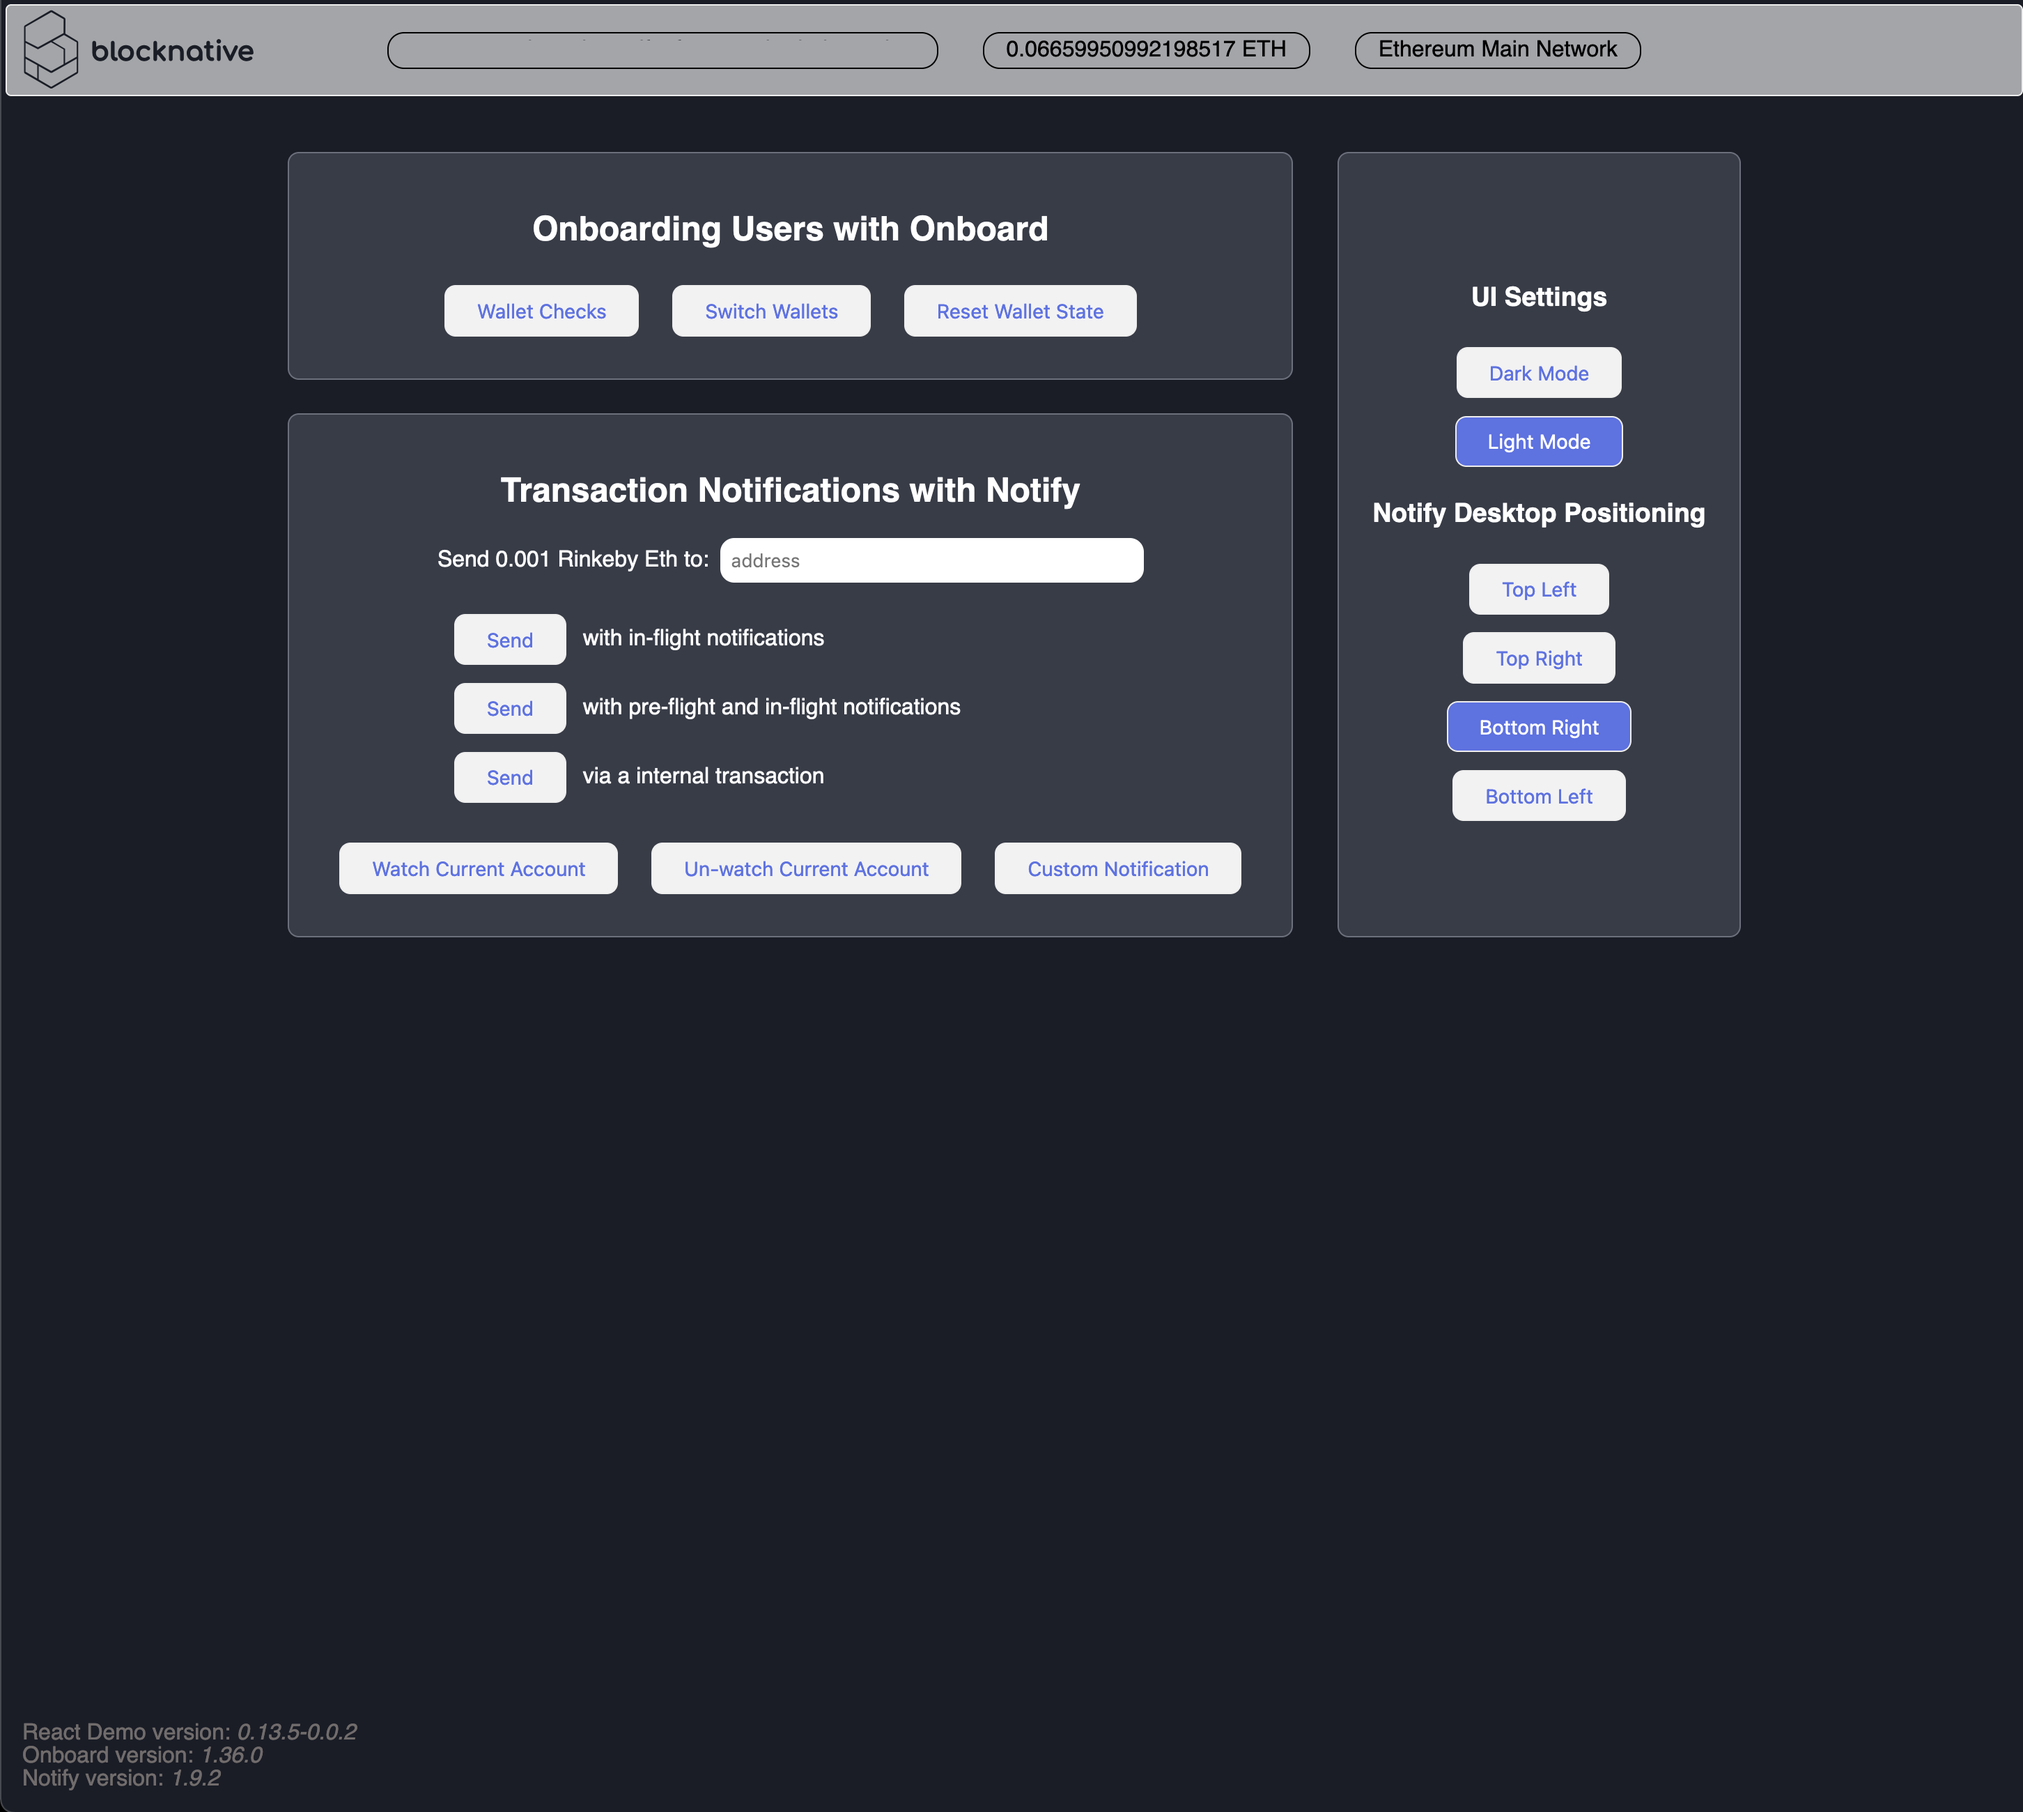
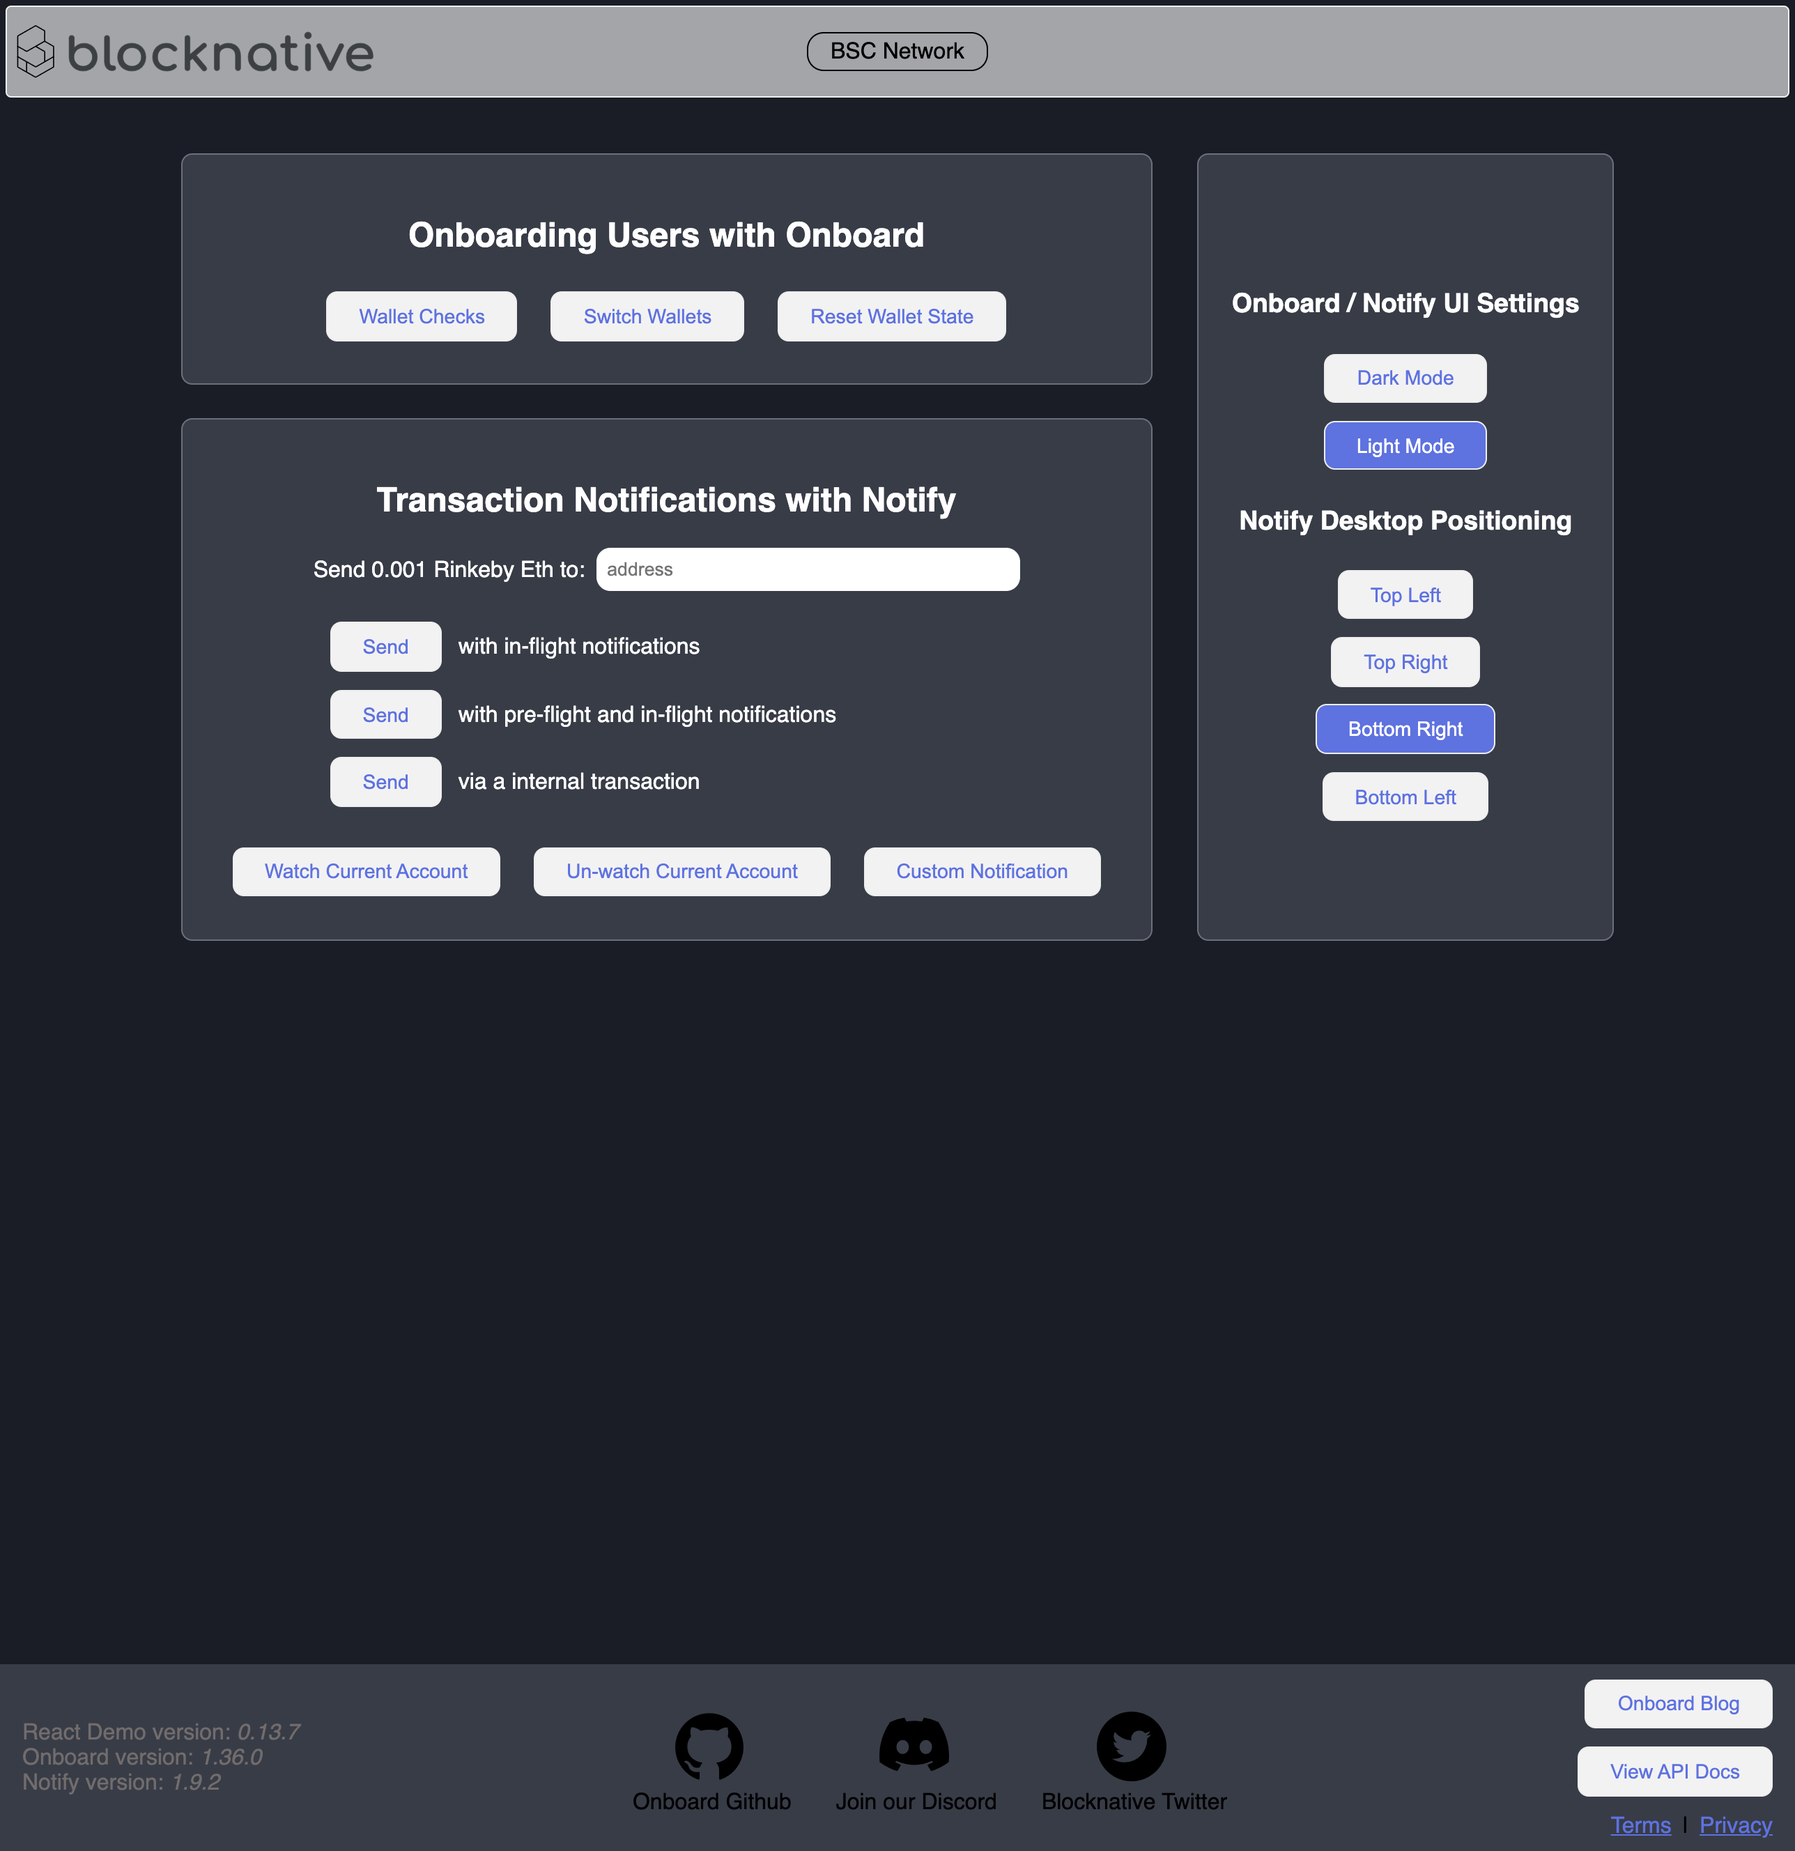
Release 0.13.7 (#129)
* Update CI node version

* Change node version CI

* Release/0.13.3 (#111)

* 0.13.2-0.0.1: [fix] - Circle CI build (#108)

* Update CI node version

* Change node version CI

* Fix build issue by upping resources for yarn build in config.yml, small refactors to create a networks enum, es6 arrow func standards

* bump version

* fix naming of network enum file

* fix naming of network enum file

* 0.13.2-0.0.2: [fix] - Increase resources for circleCI prod build (#109)

* Increase resources for circleCI prod build

* increment version

* 0.13.2-0.0.3: [enhancement] - Add popular networks support, reformatting using prettier (#110)

* Added popular networks to enum

* Reformat code using prettier

* increment version

* Add Main tag to Eth network

* add returns to new blocks and remove consoleLog

* Increase circleCI build resources, code enhancements

* 0.13.2-0.0.4: Depandabot - Bump tmpl from 1.0.4 to 1.0.5 (#107)

* Update CI node version

* Change node version CI

* Bump tmpl from 1.0.4 to 1.0.5

Bumps [tmpl](https://github.com/daaku/nodejs-tmpl) from 1.0.4 to 1.0.5.
- [Release notes](https://github.com/daaku/nodejs-tmpl/releases)
- [Commits](https://github.com/daaku/nodejs-tmpl/commits/v1.0.5)

---
updated-dependencies:
- dependency-name: tmpl
  dependency-type: indirect
...

* Release 0.13.5 - Master (#119)

* 0.13.2-0.0.1: [fix] - Circle CI build (#108)

* Update CI node version

* Change node version CI
[…]

diff --git a/src/App.js b/src/App.js
@@ -5,7 +5,6 @@ import { initOnboard, initNotify } from './services'
 import networkEnum from './networkEnum'
 import BNLogo from './icons/blocknative-logo-dark.svg'
 import avatarPlaceholder from './icons/avatar-placeholder.png'
-
 import Footer from './views/Footer/Footer.js'
 import './App.css'
 
@@ -505,7 +504,7 @@ const App = () => {
             </div>
           </div>
           <div className="container ui-settings">
-            <h3>UI Settings</h3>
+            <h3>Onboard / Notify UI Settings</h3>
             <button
               className={`bn-demo-button ${
                 darkMode ? 'selected-toggle-btn' : 'unselected-toggle-btn'
@@ -535,7 +534,7 @@ const App = () => {
           </div>
         </div>
       </section>
-      <Footer/>
+      <Footer />
     </main>
   )
 }

diff --git a/src/views/Footer/Footer.css b/src/views/Footer/Footer.css
@@ -55,8 +55,8 @@
 
 .social-links:hover > .github {
   background-color: #D0D4F7;
-  -webkit-mask: url(../../icons/github-icon-hover.svg) no-repeat 8px 8px / 50px;
-  mask: url(../../icons/github-icon-hover.svg) no-repeat 8px 8px / 50px;
+  -webkit-mask: url(../../icons/github-icon.svg) no-repeat 8px 8px / 50px;
+  mask: url(../../icons/github-icon.svg) no-repeat 8px 8px / 50px;
 }
 
 .twitter {
